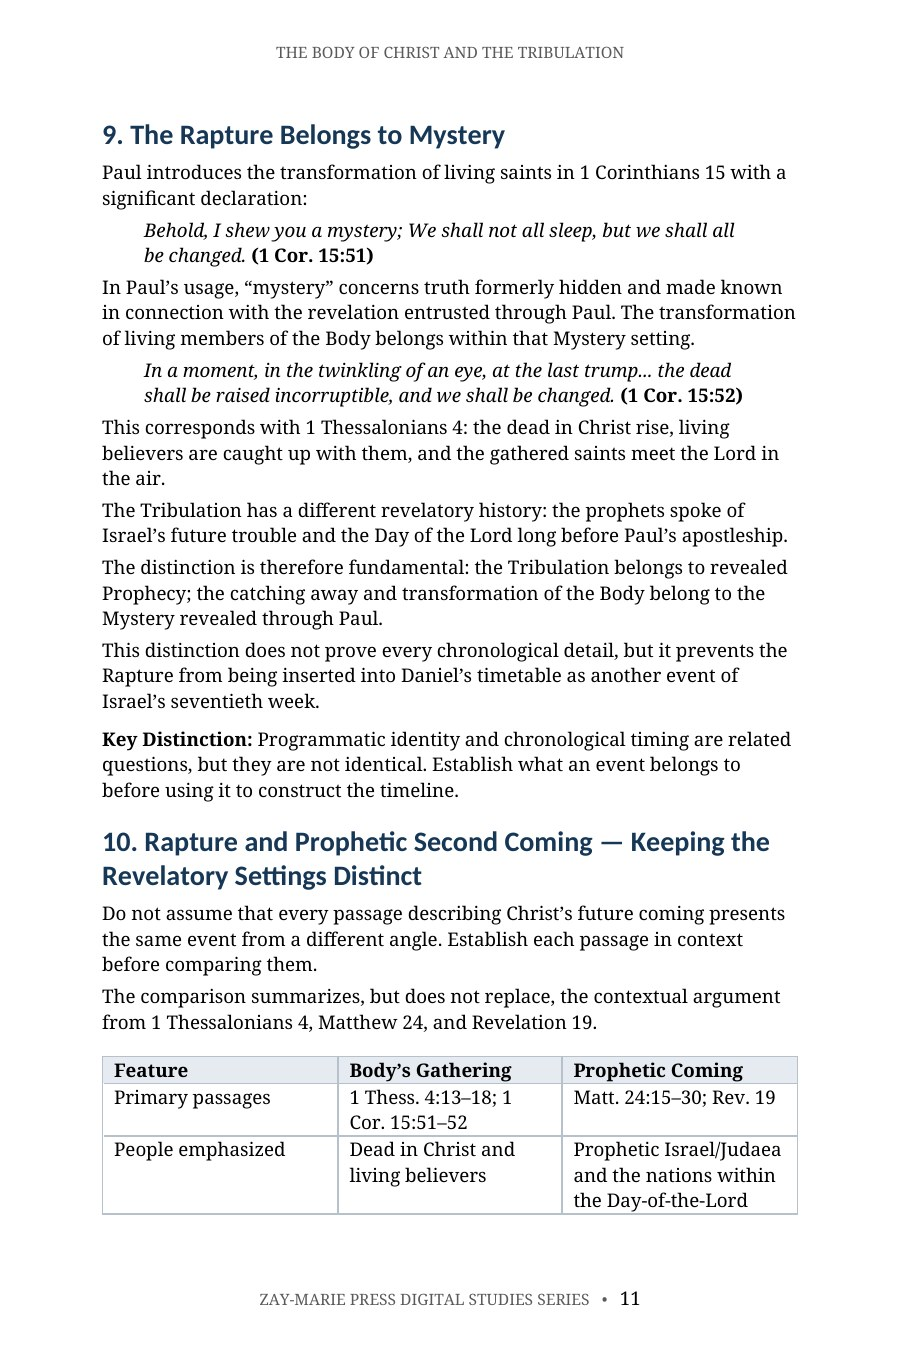
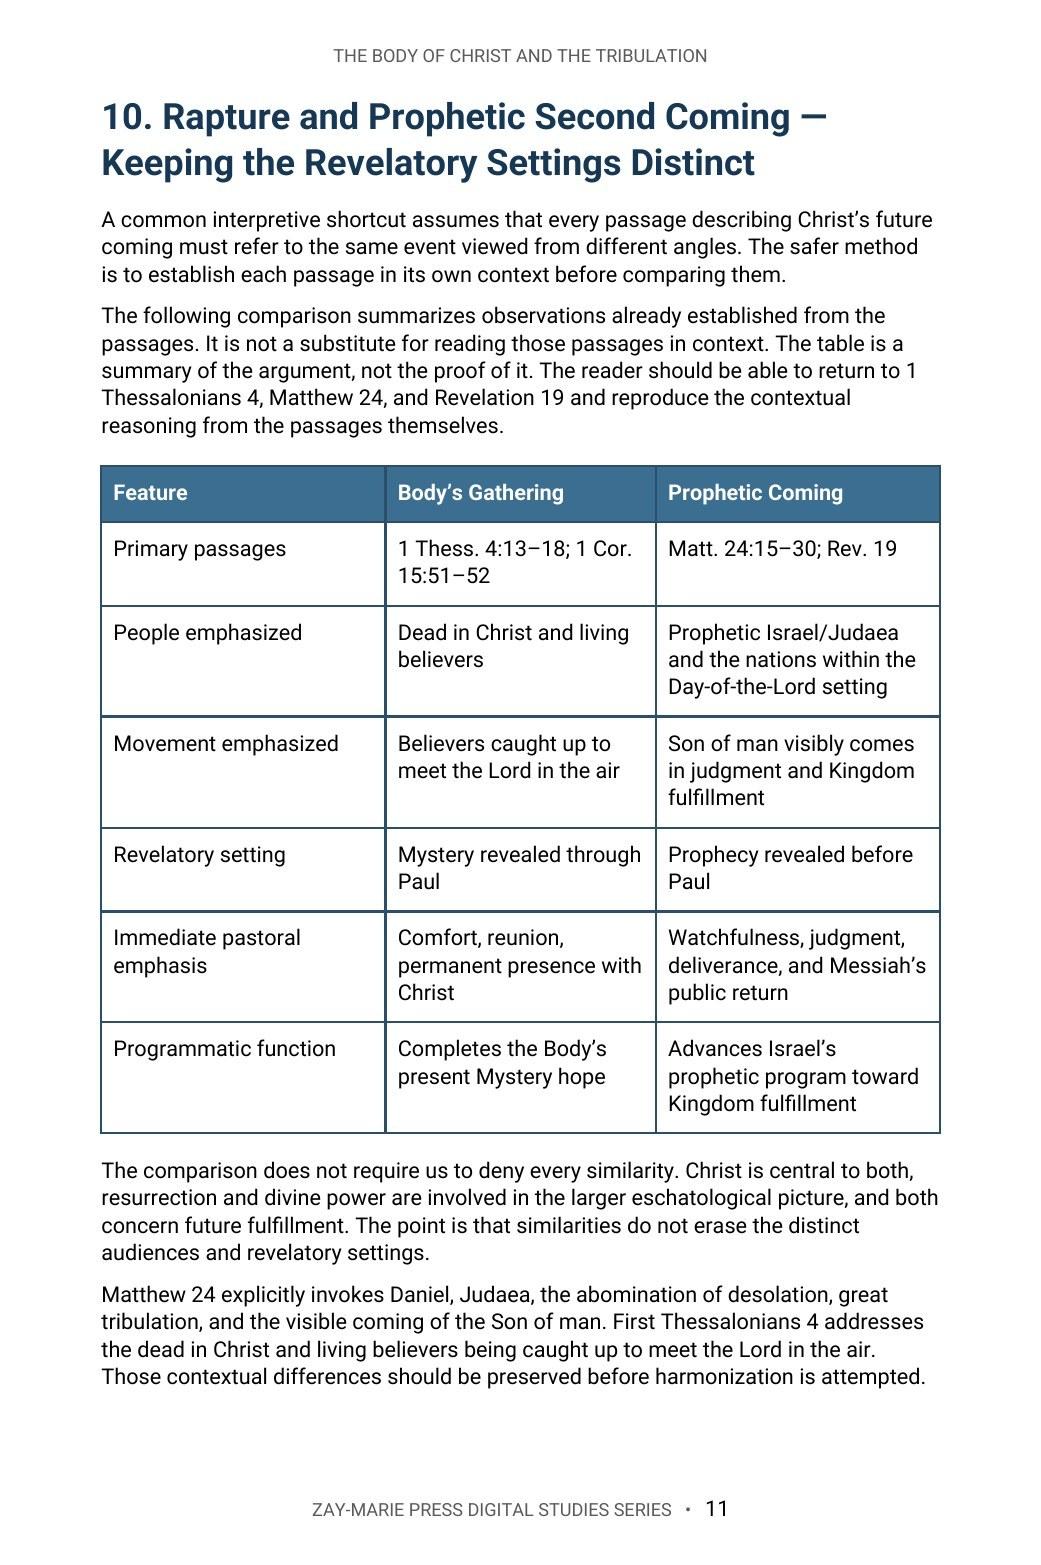
Study 3: Roboto rebuild, three-card preview strip (TOC p2, WYWL p3, p11), 18 pages; audit tracker v1.25
Claude-Session: https://claude.ai/code/session_01TLNFW47XCW6YAMUxScR3v4

Changed region(s): [[0.0933, 0.031, 0.9022, 0.9002], [0.3422, 0.9313, 0.6533, 0.9933]]

diff --git a/study-03-the-body-of-christ-and-the-tribulation.html b/study-03-the-body-of-christ-and-the-tribulation.html
@@ -44,13 +44,12 @@
 </div></div></section>
 <section class="detail-section"><div class="wrap"><div class="eyebrow">FROM THE STUDY</div><h2>Programmatic Identity Comes Before Chronology</h2><div class="excerpt"><blockquote>“Do not ask only, ‘When does this event happen?’ Ask first, ‘To whom was this truth revealed, and within which divine program does the passage place it?’”</blockquote><p>The study builds the Tribulation question from the identities Scripture actually assigns. Israel’s future prophetic trouble is established from Prophecy; the Body’s gathering and heavenly expectation are established from Paul. Only then are the chronological relationships considered.</p></div></div></section>
 <section class="detail-section soft"><div class="wrap"><div class="eyebrow">A LOOK INSIDE</div><h2>Preview the Study Before You Purchase</h2><p class="preview-instruction">Click any page to enlarge it for reading.</p><div class="preview-grid">
+<div class="preview-card"><a class="preview-image-link" data-preview-lightbox href="assets/study-03-page-2.jpg"><img src="assets/study-03-page-2.jpg" alt="Study 3 interior preview — page 2, Table of Contents"/></a><div class="page-no">Page 2</div><h3>Table of Contents</h3><p>See the full structure of the study, from the introduction through the final synthesis.</p></div>
 <div class="preview-card"><a class="preview-image-link" data-preview-lightbox href="assets/study-03-page-3.jpg"><img src="assets/study-03-page-3.jpg" alt="Study 3 interior preview — page 3, What You Will Learn in This Study"/></a><div class="page-no">Page 3</div><h3>What You Will Learn</h3><p>See the study’s learning goals, including the prophetic identity of the Tribulation, Paul’s cumulative Thessalonian argument, the Rapture as Mystery truth, and the Acts Overlap chronology.</p></div>
 <div class="preview-card"><a class="preview-image-link" data-preview-lightbox href="assets/study-03-page-11.jpg"><img src="assets/study-03-page-11.jpg" alt="Study 3 interior preview — page 11, Rapture and Prophetic Second Coming comparison table"/></a><div class="page-no">Page 11</div><h3>Rapture &amp; Prophetic Second Coming</h3><p>Begin the comparison of the Body’s gathering with the prophetic Second Coming while preserving their distinct audiences, movements, purposes, and revelatory settings.</p></div>
-<div class="preview-card"><a class="preview-image-link" data-preview-lightbox href="assets/study-03-page-12.jpg"><img src="assets/study-03-page-12.jpg" alt="Study 3 interior preview — page 12, comparison table continuation and the Body’s heavenly calling"/></a><div class="page-no">Page 12</div><h3>Two Distinct Hopes</h3><p>Complete the comparison and examine the Body’s heavenly calling alongside Israel’s prophetic earthly hope without merging Mystery and Prophecy.</p></div>
-<div class="preview-card"><a class="preview-image-link" data-preview-lightbox href="assets/study-03-page-17.jpg"><img src="assets/study-03-page-17.jpg" alt="Study 3 interior preview — page 17, Guided Further Study"/></a><div class="page-no">Page 17</div><h3>Guided Further Study</h3><p>Continue tracing the language of wrath, Daniel’s people and holy city, the Thessalonian passages, and the Acts Overlap chronology directly from Scripture.</p></div>
 </div></div></section>
 <section class="detail-section"><div class="wrap"><div class="eyebrow">WHAT’S INCLUDED</div><h2>A Focused Study Built for<br/>Understanding and Teaching</h2><div class="includes-grid">
-<div class="include-item"><h3>20-Page In-Depth Biblical Study</h3><p>A focused examination of the Tribulation question built from audience, revelatory setting, programmatic identity, and cumulative biblical evidence.</p></div>
+<div class="include-item"><h3>18-Page In-Depth Biblical Study</h3><p>A focused examination of the Tribulation question built from audience, revelatory setting, programmatic identity, and cumulative biblical evidence.</p></div>
 <div class="include-item"><h3>12 Core Teaching Sections</h3><p>Progress from the identity of the prophetic Tribulation through Paul’s teaching on the Body’s gathering, heavenly hope, and Acts Overlap chronology.</p></div>
 <div class="include-item"><h3>Study Summary &amp; Key Distinctions</h3><p>Retain the controlling distinctions between ordinary suffering and prophetic wrath, programmatic identity and chronology, Mystery and Prophecy, and suspension and cancellation.</p></div>
 <div class="include-item"><h3>Scripture-Tracing Exercise</h3><p>Record audience, event or promise, programmatic setting, and each passage’s contribution before consulting the study’s conclusions.</p></div>
@@ -59,7 +58,7 @@
 <div class="include-item"><h3>Six Guided Further-Study Investigations</h3><p>Trace prophetic wrath, Daniel’s people and city, the gathering passages, disputed details, the Body’s heavenly calling, and Acts Overlap chronology.</p></div>
 <div class="include-item"><h3>Final Synthesis Exercise</h3><p>Construct a two- to three-page biblical explanation of why the Acts Overlap framework places the Body outside Israel’s future prophetic Tribulation.</p></div>
 </div></div></section>
-<section class="detail-section cream"><div class="wrap"><div class="final-buy"><div><div class="eyebrow">STUDY 3 · DIGITAL STUDY</div><h2>The Body of Christ and the Tribulation</h2><p>20-page digital PDF · For personal use</p></div><div class="final-offer"><div class="detail-price">$5.99</div><span class="detail-button pending" aria-disabled="true">Get the Study</span></div></div><a class="back-link" href="digital-studies.html">← Back to All Digital Studies</a></div></section>
+<section class="detail-section cream"><div class="wrap"><div class="final-buy"><div><div class="eyebrow">STUDY 3 · DIGITAL STUDY</div><h2>The Body of Christ and the Tribulation</h2><p>18-page digital PDF · For personal use</p></div><div class="final-offer"><div class="detail-price">$5.99</div><span class="detail-button pending" aria-disabled="true">Get the Study</span></div></div><a class="back-link" href="digital-studies.html">← Back to All Digital Studies</a></div></section>
 <section class="study-method-course-bridge"><div class="wrap"><div class="study-method-course-panel"><div><div class="eyebrow">BUILD THE INTERPRETIVE METHOD</div><h2>Want More Than a Focused Study?</h2><p>Digital Studies examine particular biblical subjects and difficult passages. The 40-lesson Biblical Hermeneutics course teaches a complete, repeatable method for establishing meaning in context, determining proper assignment, and making responsible application.</p></div><a class="btn btn-primary" href="biblical-hermeneutics-course.html">BIBLICAL HERMENEUTICS COURSE</a></div></div></section></main><div class="preview-lightbox" id="preview-lightbox" role="dialog" aria-modal="true" aria-label="Enlarged study page preview"><button class="preview-lightbox-close" type="button" aria-label="Close enlarged preview">×</button><img src="" alt=""/><div class="preview-lightbox-hint">Scroll to read the full page · Press Esc or click outside the page to close</div></div>
 <footer class="site-footer"><div class="wrap footer-grid"><div class="footer-about"><h3>Zay-Marie Press</h3><p class="footer-tagline"><em>Where the Bible Means What It Says.</em></p><p>Zay-Marie Press is a Christian theological publisher dedicated to producing doctrinally precise, carefully structured biblical resources that equip pastors, teachers, and serious students with clarity, depth, and Scripture-anchored truth.</p><p><a href="https://zaymariepress.com">zaymariepress.com</a><br/><a href="mailto:info@zaymariepress.com">info@zaymariepress.com</a></p></div><div class="footer-column"><h3>Explore</h3><div class="footer-links-stacked"><a href="books.html">Books</a><br/><a href="series.html">Series</a><br/><a href="biblical-hermeneutics-course.html">Course</a><br/><a href="digital-studies.html">Digital Studies</a><br/><a href="resources.html">Resources</a><br/><a href="bible-book-summaries.html">Bible Book Summaries</a><br/><a href="doctrinal-packets.html">Doctrinal Packets</a><br/><a href="historical-drift.html">Historical Drift</a><br/><a href="about.html">About</a><br/><a href="contact.html">Contact</a></div></div><div class="footer-column"><h3>Reader Support</h3><div class="footer-links-stacked"><a href="reader-support.html#faq">FAQ</a><br/><a href="reader-support.html#shipping-returns">Shipping &amp; Returns</a><br/><a href="reader-support.html#digital-downloads">Digital Downloads</a><br/><a href="reader-support.html#contact-support">Contact Support</a></div></div><div class="footer-column"><h3>Acts Overlap</h3><p><strong>Acts Overlap Theology Series</strong></p><p><em>Two Distinct Streams. One Overlap.</em></p><p><a href="series.html">Series Overview</a></p></div></div><div class="wrap footer-bottom">© 2026 Zay-Marie Press. All rights reserved.</div></footer>
 <script src="site.js"></script><script>(function(){var box=document.getElementById("preview-lightbox"),img=box.querySelector("img"),close=box.querySelector(".preview-lightbox-close"),hint=box.querySelector(".preview-lightbox-hint"),hintTimer;function shut(){clearTimeout(hintTimer);box.classList.remove("open");hint.classList.remove("fade");document.body.style.overflow="";img.src="";}document.querySelectorAll("[data-preview-lightbox]").forEach(function(a){a.addEventListener("click",function(e){e.preventDefault();clearTimeout(hintTimer);img.src=a.getAttribute("href");img.alt=a.querySelector("img").alt;hint.classList.remove("fade");box.classList.add("open");document.body.style.overflow="hidden";box.scrollTop=0;hintTimer=setTimeout(function(){hint.classList.add("fade");},3000);});});close.addEventListener("click",shut);box.addEventListener("click",function(e){if(e.target===box)shut();});document.addEventListener("keydown",function(e){if(e.key==="Escape"&&box.classList.contains("open"))shut();});})();</script>

diff --git a/site.js b/site.js
@@ -62,7 +62,7 @@ const resourceModal=document.querySelector('#resource-modal'), resourceModalTitl
 if(resourceModal&&resourceModalTriggers.length){const closeResourceModal=()=>{resourceModal.hidden=true;document.body.classList.remove('resource-modal-open');lastResourceTrigger?.focus();};resourceModalTriggers.forEach(trigger=>trigger.addEventListener('click',()=>{lastResourceTrigger=trigger;if(resourceModalTitle)resourceModalTitle.textContent=trigger.dataset.title||'Resource';if(resourceModalDescription)resourceModalDescription.textContent=trigger.dataset.description||'';if(resourceModalLink){resourceModalLink.href=trigger.dataset.href||'#';resourceModalLink.textContent=trigger.dataset.linkText||'OPEN RESOURCE';}resourceModal.hidden=false;document.body.classList.add('resource-modal-open');resourceModalClose?.focus();}));resourceModalClose?.addEventListener('click',closeResourceModal);resourceModal.addEventListener('click',e=>{if(e.target===resourceModal)closeResourceModal();});document.addEventListener('keydown',e=>{if(e.key==='Escape'&&!resourceModal.hidden)closeResourceModal();});}
 
 /* Display the verified final-PDF page count at the primary purchase decision point. */
-const digitalStudyPageCounts={1:14,2:14,3:20,4:20,5:16,6:16,7:17,8:15,9:16,10:23,11:13,12:13,13:15,14:13,15:13,16:14,17:14,18:13,19:13,20:13,21:14,22:15,23:15,24:13,25:13,26:17,27:15,28:14,29:13,30:17,31:17,32:14,33:15,34:16,35:15,36:15,37:15,38:16,39:16,40:15,41:15,42:15,43:17,44:15,45:15,46:15,47:16,48:15,49:14,50:14,51:15,52:15,53:15,54:15,55:16,56:16,61:16,62:16,63:16,64:16,65:16,66:16,67:16,68:16,69:16,70:16,71:16};
+const digitalStudyPageCounts={1:14,2:14,3:18,4:20,5:16,6:16,7:17,8:15,9:16,10:23,11:13,12:13,13:15,14:13,15:13,16:14,17:14,18:13,19:13,20:13,21:14,22:15,23:15,24:13,25:13,26:17,27:15,28:14,29:13,30:17,31:17,32:14,33:15,34:16,35:15,36:15,37:15,38:16,39:16,40:15,41:15,42:15,43:17,44:15,45:15,46:15,47:16,48:15,49:14,50:14,51:15,52:15,53:15,54:15,55:16,56:16,61:16,62:16,63:16,64:16,65:16,66:16,67:16,68:16,69:16,70:16,71:16};
 const digitalStudyMatch=window.location.pathname.match(/\/study-(\d+)-/i);
 const digitalStudyFormat=document.querySelector('.detail-hero .detail-format');
 if(digitalStudyMatch&&digitalStudyFormat){const studyNumber=Number(digitalStudyMatch[1]),pageCount=digitalStudyPageCounts[studyNumber];if(pageCount)digitalStudyFormat.textContent=`Digital PDF · ${pageCount} Pages`;}

diff --git a/controlling-documents/Digital_Studies_PAM_Audit_v1.25.md b/controlling-documents/Digital_Studies_PAM_Audit_v1.25.md
@@ -1,4 +1,4 @@
-# Digital Studies vs. PAM Audit — v1.24
+# Digital Studies vs. PAM Audit — v1.25
 
 Working tracker and instructions for checking the Digital Studies against the Program Assignment Manual (PAM), §XIX of `Framework_Control_Document_Acts_Overlap.docx`, including its "Section 4 — Publisher Rulings". Same `_vX.Y` convention as the other controlling documents: update the status table and changelog as the audit proceeds, bump the version, and rename the file to match.
 
@@ -251,3 +251,4 @@ Study 15 PDF not yet supplied. Typography: none of Studies 2, 3, 6, 8 is in EB G
 - v1.22 (2026-09-30): Studies 1 and 2 rebuilt in Roboto at 9 pt (14 pages each, original covers kept, TOC numbers verified). Study 2: two "What You Will Learn" bullets rewritten under §17 (publisher-approved), preview strip replaced with TOC, What You Will Learn and Introduction (§16), page count 15 to 14. Study 1 previews re-cut from the Roboto PDF. Roboto has no "→" or "□": build substitutes "›" and "[ ]" (see fonts/README.md). Publisher swaps both PDFs.
 - v1.23 (2026-09-30): Study 9 interior rebuilt from the publisher's DOCX (Study_9_The_Remnant_REVISED_FINAL.docx) in Roboto and brought to the Master Standard (publisher approved the rendered review copy v4, "i approve"). The DOCX predated the Standard. Changed: cover replaced with the approved full-bleed cover (the DOCX held a legacy cover with the title cropped); body 6 pt after / 1.08 line spacing, H1 14/8, H2 10/5 (were 2.5 pt / 0.98, 8/3, 6.5/3); callouts rebuilt as single light-blue boxes with a dark navy border, about 7 pt top/bottom and 8 pt left/right padding, 10 pt before and after, and increased from 3 to 5 (Study Goal, Study Chain, Interpretive Control, Acts 28 Control, Conclusion Control; the two new ones are the study's own sentences moved into boxes, wording unchanged); tables with Slate Blue (#3B6E91) headers, white text, dark single-line borders on every cell, plain white body rows, rows kept together; Table of Contents moved ahead of What You Will Learn (Master Standard section 3), with a What You Will Learn entry added; final imprint block added (section 10); one sentence split across two paragraphs in the Introduction ("The goal is not to create / one remnant community...") joined; blank page-break paragraph before Study Summary removed; Study Chain steps kept whole on each line. Left and right margins narrowed from 0.64 in to 0.58 in to hold the study at 15 interior pages without cutting text. 16 pages total (cover plus 15 interior), only Roboto faces embedded, 0 TOC mismatches. Website: preview strip now Page 2 Table of Contents, Page 3 What You Will Learn, Page 8 Acts 9-28 Concurrent Operation, images re-cut from the rebuilt PDF at 1041 x 1565 (the page is 6 x 9 in, so it keeps its own proportions); page count stays 16. **Open, not changed:** this DOCX prints the series line in the page header and "THE REMNANT - zaymariepress.com" as the footer (Master Standard section 11 wants the series footer); no interior title page (section 3); page size is 6 x 9 in while Studies 1 and 2 are letter. The publisher swaps the purchasable PDF himself. Live check of Study 9 was not possible from the workspace (Cloudflare Access sign-in).
 - v1.24 (2026-09-30): Master Standard v1.28 (publisher directive): exactly five boxed callouts per study (dark navy border; extras become body paragraphs with a bold run-in lead), copyright notice only in the end imprint (no front copyright page), table body rows plain white. Study 3 rebuilt in Roboto as a review copy to these rules (5 callouts, TOC first, Roboto only, review questions renumbered 1-12); it runs 18 pages (cover plus 17 interior) against the 16 allowed, so the publisher must choose between trimming about 1.7 pages, allowing 17 interior pages, or a smaller body size. Study 3 is not pushed and its site files are unchanged. Studies 4-8 and 11-14 will follow the same rules.
+- v1.25 (2026-09-30): Study 3 approved by the publisher as built ("i approve": 18 pages, cover plus 17 interior) and pushed. Interior rebuilt in Roboto from the publisher's Production Master DOCX: five boxed callouts (the other twelve became body paragraphs with a bold run-in lead, wording unchanged), table of contents first with a What You Will Learn entry, blank spacer paragraphs removed, Standard spacing, tables restyled, front copyright page moved into the end imprint, footer text "DIGITAL STUDIES SERIES", review questions renumbered 1-12 (were 12-23), narrower margins (0.58 in). Website: preview strip reduced from four cards (pages 3, 11, 12, 17) to the three required by section 16: Page 2 Table of Contents, Page 3 What You Will Learn, Page 11 Rapture and Prophetic Second Coming; images re-cut from the rebuilt PDF at 1041 x 1565 (6 x 9 in page); old pages 12, 14 and 17 removed; page count 20 to 18 in site.js, the What's Included card and the buy panel. The publisher swaps the purchasable PDF himself. Not checked live (Cloudflare Access sign-in); checked locally at 1280, 390, 360 and 320 px.
